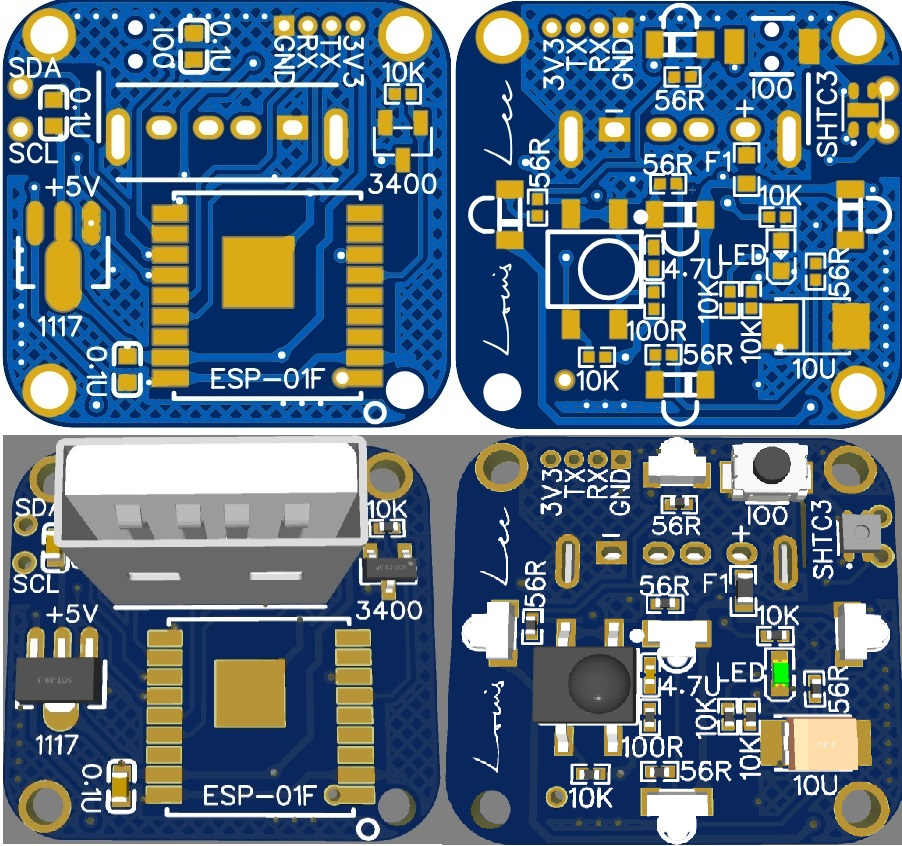
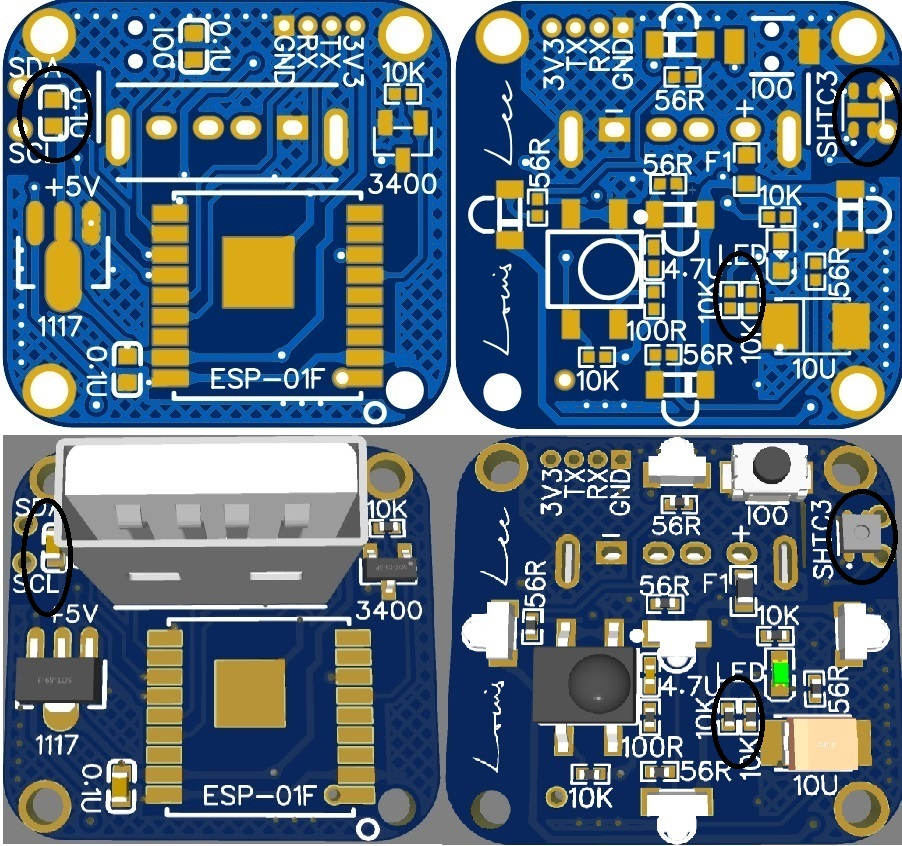
Summary

diff --git a/hardware/README.md b/hardware/README.md
@@ -1,11 +1,13 @@
 # Homekit_Air_Conditioner_Remote
-硬件有两个版本，采用0402封装，需要很好的焊接技术：
+硬件有三个版本：
 
-* [5V1A版本](/hardware/AC_IR_Homekit_5V1A_3.0_0402)：2层PCB打样，外观专门与Apple 5V1A 充电头配套。其它USB充电头也可用。
-* [Inside版本](/hardware/AC_IR_Homekit_Inside_3.0_0402)：2层PCB打样，安装在空调内部, 直接从空调内部取电和红外反馈。需有电工基础和空调维修经验。
+* [5V1A版本](/hardware/AC_IR_Homekit_5V1A_3.0_0402)：0402封装，2层PCB打样，外观专门与Apple 5V1A 充电头配套。其它USB充电头也可用。
+* [Inside版本](/hardware/AC_IR_Homekit_Inside_3.0_0402)：0402封装，2层PCB打样，安装在空调内部, 直接从空调内部取电和红外反馈。需有电工基础和空调维修经验。
+* [USB_TYPE版本](/hardware/AC_IR_Homekit_USB_TYPE_0603)：0603封装，便于焊接，2层PCB打样，形似U盘，简洁不简单。
+
 * SDA,SCL,3V3,GND红色标记处，用于外接 *`温湿度传感器模块`* 。避免因PCB过于紧凑，导致PCB上SHTC3受ESP-01F散热干扰而测温始终高的问题。
 * 支持的SHT温湿度传感器外接模块:　SHTC1，　SHTC3，　SHTW1，　SHTW2，　SHT3x-DIS (I2C)，　SHT3x-ARP (ratiometric analog voltage output)，　SHT85，　SHT4x。
-<br>如使用外接模块，PCB上的SHTC3不必焊接。
+<br>如使用外接模块，PCB上的SHTC3及相关阻容不必焊接。黑色标记处。
 <div align="center">
 <br><img src="/image/SHT3X.jpg"  width="60%"/>
  </div> 
